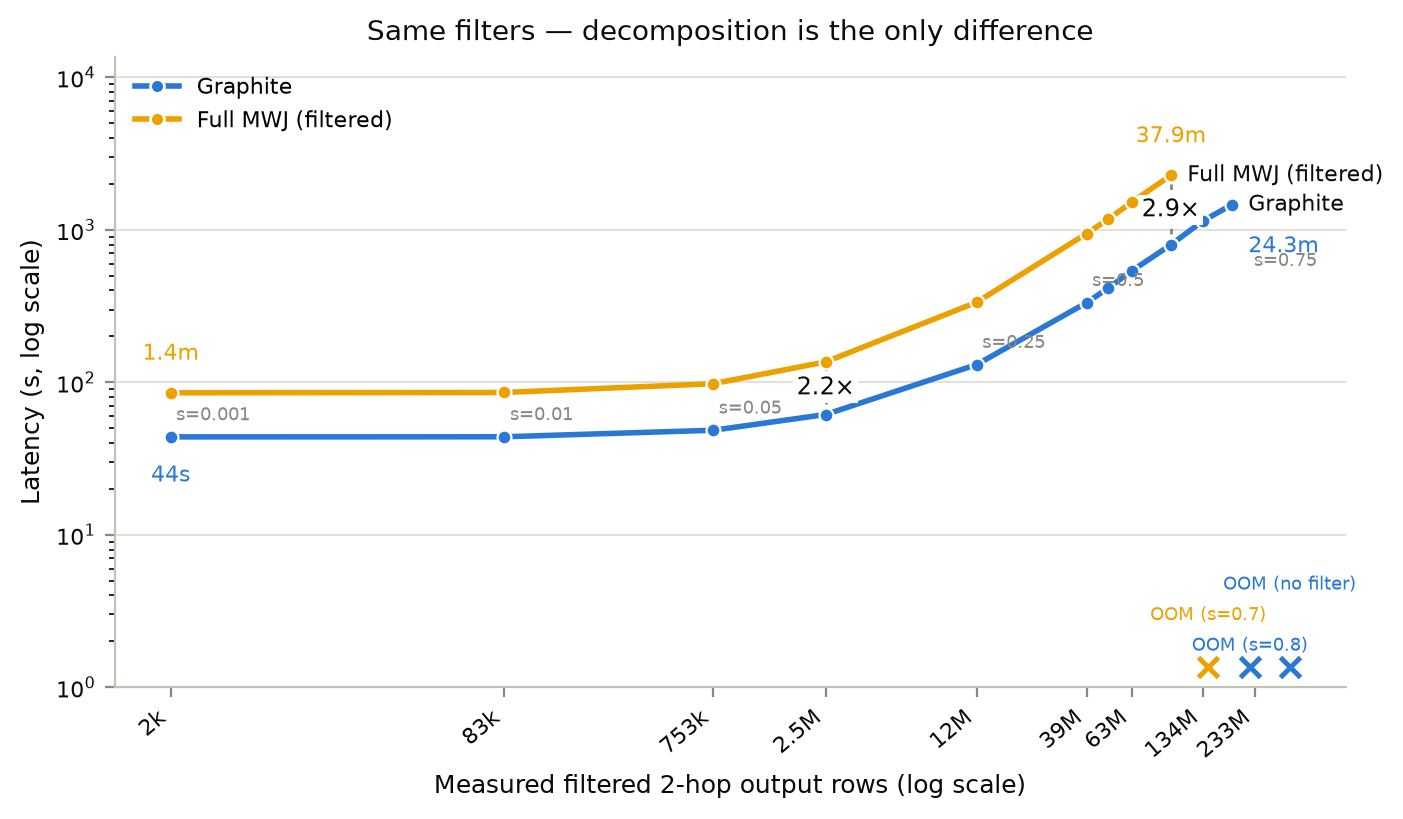
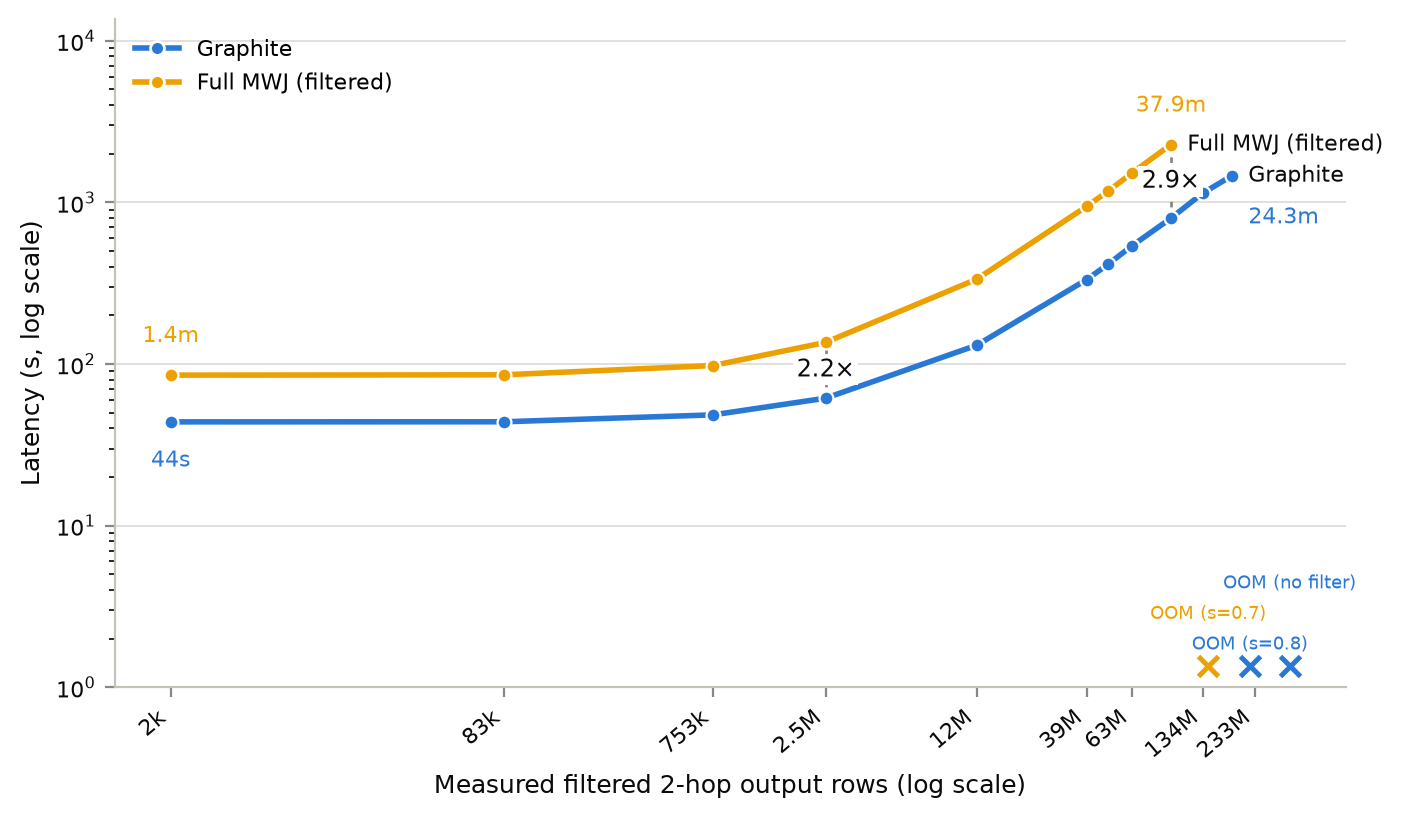
E7 plot: drop title and per-point s labels
Title removed pending a better one; gray s= point labels removed (they
overlapped and read poorly). Endpoint latency labels, gap connectors, and
OOM markers stay.

diff --git a/scripts/experiments/plot_e7_selectivity.py b/scripts/experiments/plot_e7_selectivity.py
@@ -172,25 +172,6 @@ def main():
                         ha="left" if below else "center",
                         va="top" if below else "bottom",
                         fontsize=8, color=color, zorder=4)
-        if key == "nebuladb":
-            # Selectivity labels once, tucked between the two curves above
-            # the Graphite points (its value labels occupy the space below).
-            # The probe points (0.55-0.75) sit too close together on the log
-            # axis to label individually — annotate only the sparse
-            # canonical points plus the topmost completed one.
-            # GAP_SELS points carry the gap connector instead of an s label.
-            labeled = {0.001, 0.01, 0.05, 0.1, 0.25, 0.5} - set(GAP_SELS)
-            if sels:
-                labeled.add(sels[-1])
-            for x, y, s in zip(xs, ys, sels):
-                if s in labeled:
-                    # The topmost point's label stacks under its value
-                    # label, right of the point (empty space at the edge).
-                    last = sels and s == sels[-1]
-                    ax.annotate(fmt_sel(s), (x, y),
-                                xytext=(8, -22) if last else (2, 6),
-                                textcoords="offset points", ha="left",
-                                fontsize=6.5, color=MUTED, zorder=4)
         for x, y in invalid_pts:
             ax.plot([x], [y], marker="o", markersize=11,
                     markerfacecolor="none", markeredgecolor=INVALID_RED,
@@ -256,8 +237,6 @@ def main():
     ax.set_xlabel("Measured filtered 2-hop output rows (log scale)",
                   fontsize=9, color=INK)
     ax.set_ylabel("Latency (s, log scale)", fontsize=9, color=INK)
-    ax.set_title("Same filters — decomposition is the only difference",
-                 fontsize=10, color=INK)
     ax.legend(handles=[Line2D([], [], color=c, marker="o", markersize=5,
                               linewidth=2, markeredgecolor="white", label=n)
                        for _, n, c in SYSTEMS],
